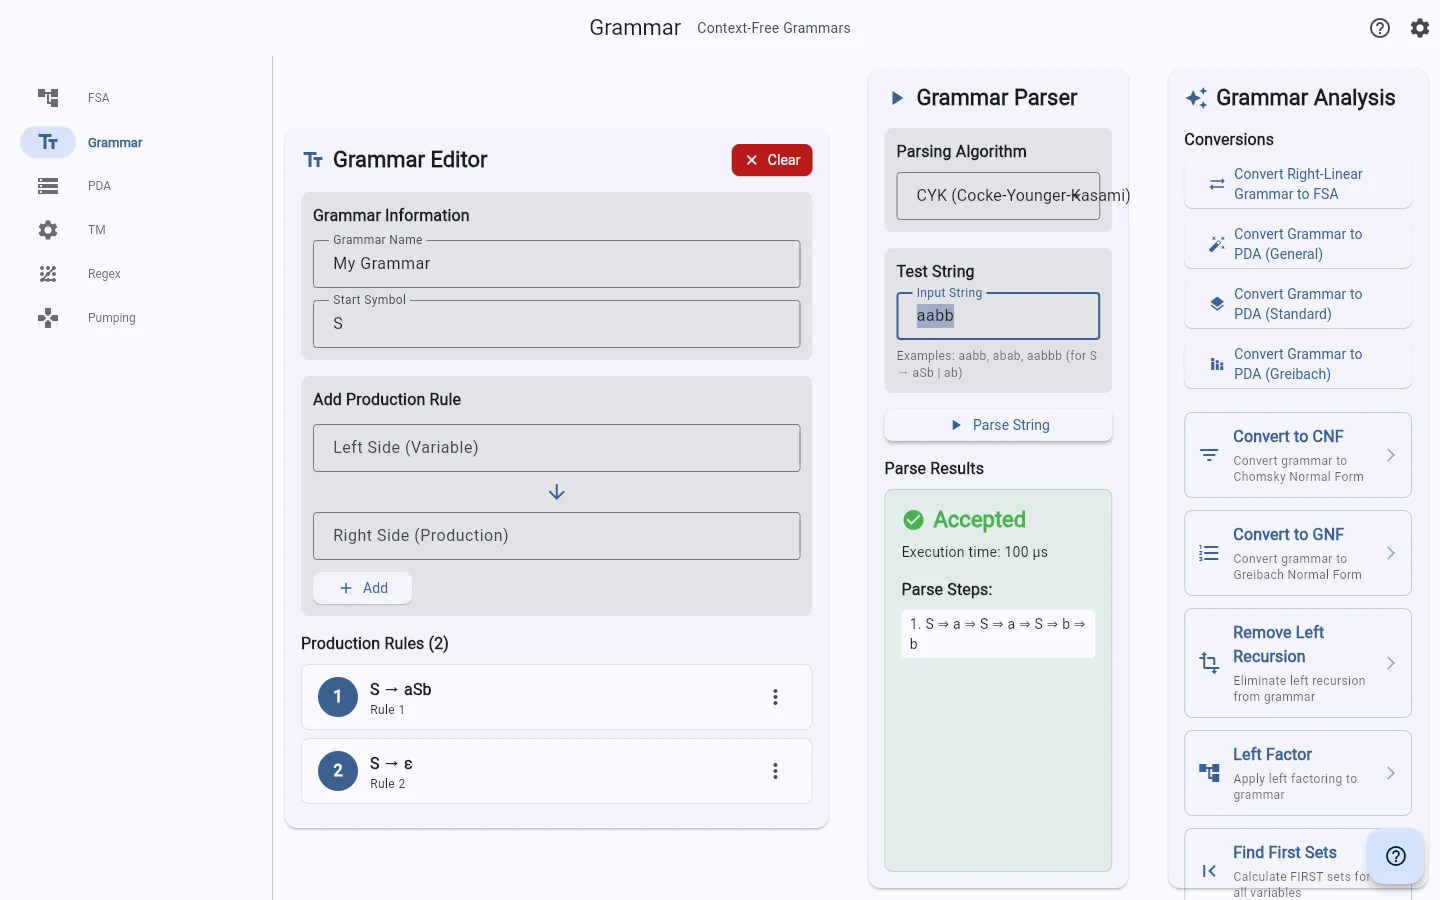
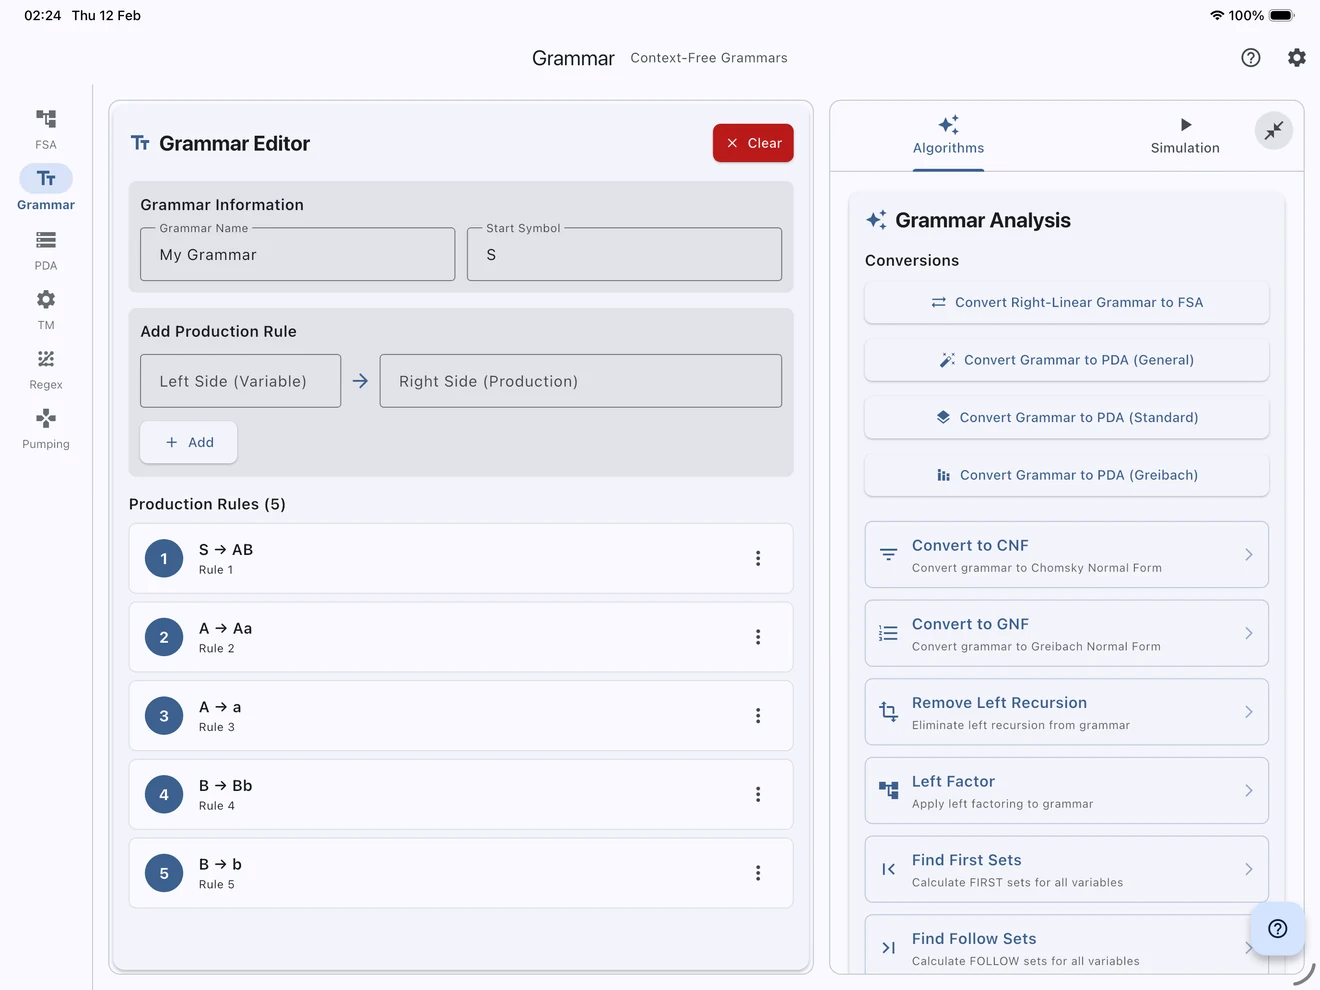
web: use canonical project screenshots

diff --git a/docs/index.html b/docs/index.html
@@ -57,8 +57,8 @@
           </div>
         </div>
         <figure class="overview-figure">
-          <img src="assets/screenshots/fsa.webp" alt="Finite-state automata workspace with an editable canvas and algorithm panel" width="1440" height="900">
-          <figcaption>Finite-state automata workspace.</figcaption>
+          <img src="assets/screenshots/fsa.webp" alt="Finite-state automata simulation with an editable canvas and step-by-step execution trace" width="1320" height="990">
+          <figcaption>Finite-state automata simulation and execution trace.</figcaption>
         </figure>
       </div>
     </section>
@@ -206,20 +206,20 @@
         <div class="section-heading">
           <p class="section-index">04 / Interface</p>
           <h2 id="screenshots-title">Application workspaces</h2>
-          <p>Captured from a controlled desktop testing configuration.</p>
+          <p>Captured from controlled mobile and tablet testing configurations.</p>
         </div>
         <div class="screenshot-grid">
           <figure>
-            <img src="assets/screenshots/fsa.webp" alt="Finite-state automata editor showing the canvas and available algorithms" width="1440" height="900" loading="lazy">
-            <figcaption><strong>Finite-state automata.</strong> Canvas editing, algorithms, and simulation are available in the same workspace.</figcaption>
+            <img src="assets/screenshots/fsa.webp" alt="Finite-state automata simulation showing the canvas, accepted input, and execution trace" width="1320" height="990" loading="lazy">
+            <figcaption><strong>Finite-state automata.</strong> Automaton canvas, simulation result, and step-by-step trace.</figcaption>
           </figure>
           <figure>
-            <img src="assets/screenshots/grammar.webp" alt="Context-free grammar editor with productions and analysis controls" width="1440" height="900" loading="lazy">
-            <figcaption><strong>Context-free grammars.</strong> Production editing, parsing, diagnostics, and conversions.</figcaption>
+            <img src="assets/screenshots/grammar.webp" alt="Context-free grammar editor with production rules and transformation controls" width="1320" height="990" loading="lazy">
+            <figcaption><strong>Context-free grammars.</strong> Production editing and grammar transformations.</figcaption>
           </figure>
           <figure>
-            <img src="assets/screenshots/tm.webp" alt="Turing machine workspace with state canvas and tape simulation controls" width="1440" height="900" loading="lazy">
-            <figcaption><strong>Turing machines.</strong> Transition editing and tape-based execution traces.</figcaption>
+            <img src="assets/screenshots/regex.webp" alt="Regular expression workspace with validation and string match results" width="1320" height="990" loading="lazy">
+            <figcaption><strong>Regular expressions.</strong> Validation, match testing, automaton conversion, and equivalence comparison.</figcaption>
           </figure>
         </div>
       </div>

diff --git a/test/website/site_contract_test.dart b/test/website/site_contract_test.dart
@@ -164,13 +164,14 @@ void main() {
       expect(image, matches(RegExp(r'''\bheight=["']\d+["']''')));
     }
 
-    for (final screenshot in <String>['grammar.webp', 'tm.webp']) {
+    for (final screenshot in <String>['grammar.webp', 'regex.webp']) {
       expect(
         index,
         matches(RegExp('<img[^>]+$screenshot[^>]+loading="lazy"')),
         reason: '$screenshot must be loaded lazily',
       );
     }
+    expect(index, isNot(contains('tm.webp')));
   });
 
   test('keeps runtime resources local and every relative target present', () {
